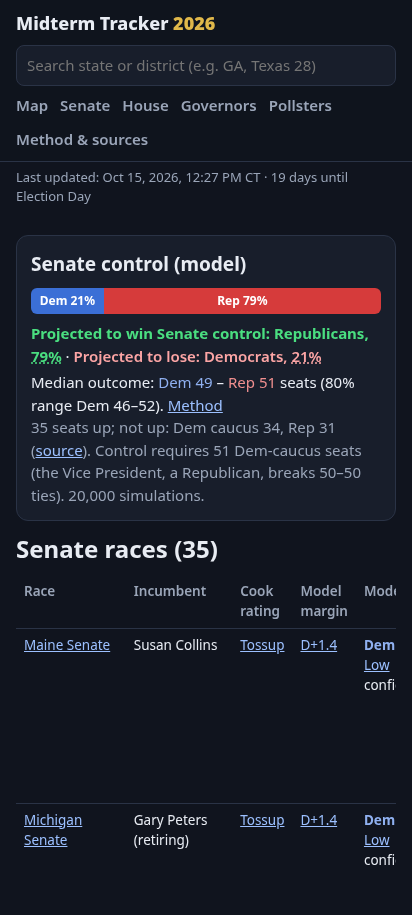
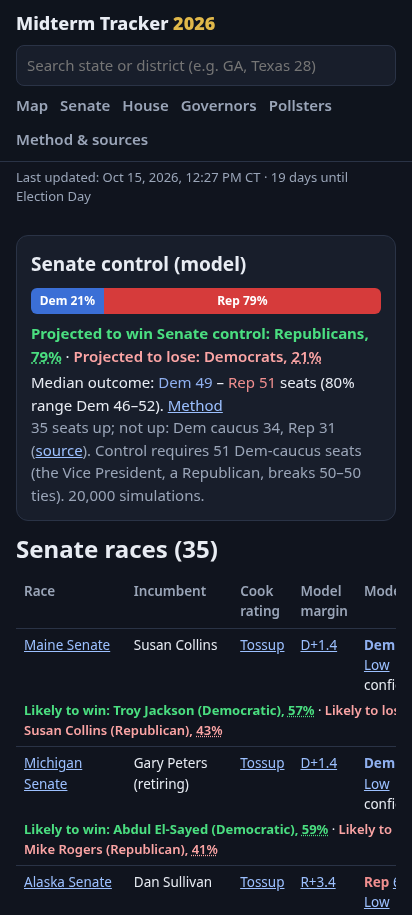
Restore service worker (cache v3)

diff --git a/sw.js b/sw.js
@@ -1,0 +1,5 @@
+const C='mt-v3',A=['./','index.html','style.css','app.js','manifest.webmanifest','icons/icon-192.png'];
+self.addEventListener('install',e=>{e.waitUntil(caches.open(C).then(c=>c.addAll(A)));self.skipWaiting()});
+self.addEventListener('activate',e=>{e.waitUntil(caches.keys().then(k=>Promise.all(k.filter(x=>x!==C).map(x=>caches.delete(x)))));self.clients.claim()});
+self.addEventListener('fetch',e=>{if(e.request.method!=='GET'||new URL(e.request.url).origin!==location.origin)return;
+e.respondWith(fetch(e.request).then(r=>{const c=r.clone();caches.open(C).then(x=>x.put(e.request,c));return r}).catch(()=>caches.match(e.request)))});
